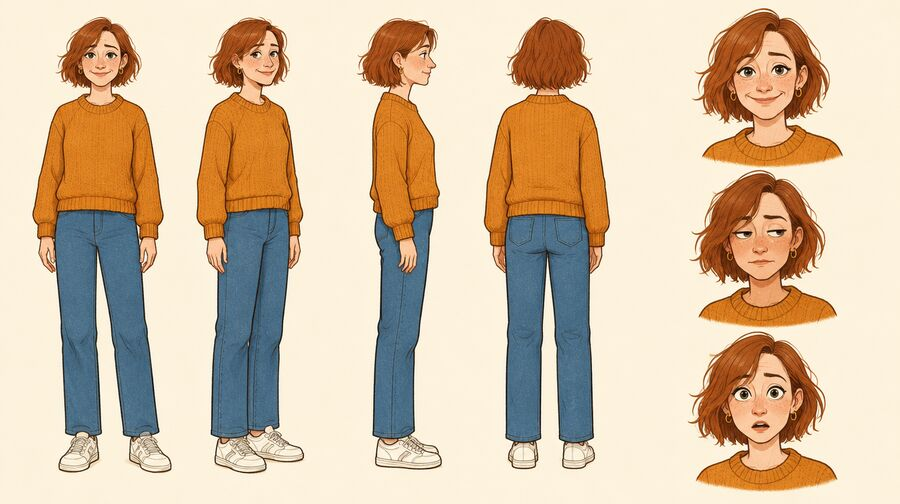
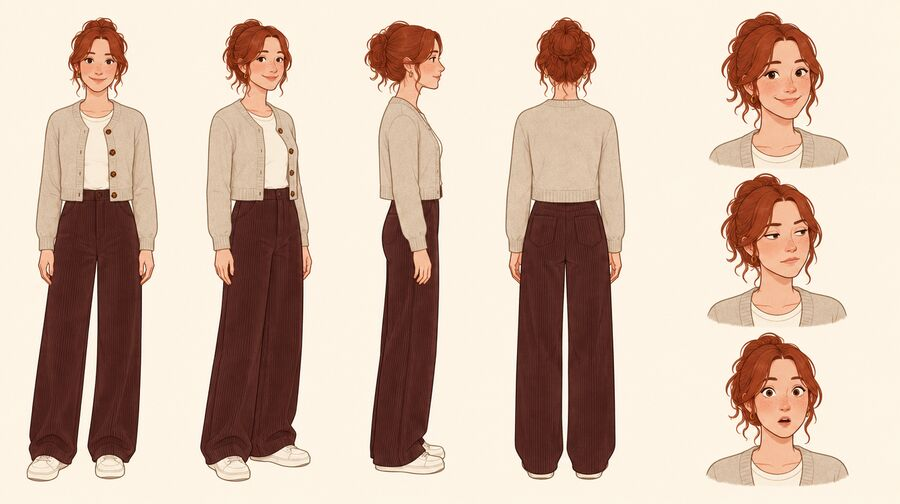
Emily v3 (red updo, beige and burgundy), calmer palette, comic redrawn; Halloween week plan
Claude-Session: https://claude.ai/code/session_019ztv4DbB6iZxgJYrBK5yr6

diff --git a/CHARACTERS.md b/CHARACTERS.md
@@ -12,6 +12,7 @@ Read this before making any comic, illustrated post or video with the I'm OK cas
   - Why not 3D: AI 3D characters drift towards the generic animated-film look, which reads as AI and as borrowed; 2D is easier to keep consistent and leaves room for text.
   - Revisit only if the 2D videos clearly underperform after a month, and then switch the whole cast at once, never mix.
 - Line: rounded, medium weight, warm dark brown (#3A2A1E), never pure black.
+- Scenes use a calm, muted palette: cream walls, sage green, beige and warm wood. Bright orange is for Tick and small accents only, never whole rooms or clothes.
 - Colour: the brand palette. Cream background #FFF7EE, warm sand #F3E6D6, I'm OK orange #FF8A3D with the gradient to #FFB347, ink #2A1D14, WhatsApp green #25D366 only for phone screens and Done buttons.
 - Proportions: natural (head about one sixth of the body). No giant limbs, tiny heads or corporate-flat people.
 - Faces: simple, expressive eyes and eyebrows; the joke is carried by expressions.
@@ -22,7 +23,7 @@ Read this before making any comic, illustrated post or video with the I'm OK cas
 
 | Character | Look (keep identical every time) | Personality | Running joke | Never |
 |---|---|---|---|---|
-| **Emily** | Late 30s, short copper-ginger hair in a choppy chin-length bob with a side parting, freckles, mustard-orange jumper (brand orange), jeans, white trainers, small gold hoops | Kind, busy, slightly late, worries about her parents | Has 47 phone alarms, all called IMPORTANT | Shown as a nag or a bad daughter |
+| **Emily** | Mid 30s, copper-red hair tied up in a loose, effortless messy updo with face-framing strands, freckles, smooth skin (no lines), oatmeal-beige cropped cardigan over a cream top, wide-leg burgundy corduroy trousers, white trainers, small gold hoops | Kind, busy, slightly late, worries about her parents, quietly stylish | Has 47 phone alarms, all called IMPORTANT | Shown as a nag or a bad daughter |
 | **Mum** | Early 70s, short silver bob, red-framed glasses on a beaded chain, teal cardigan, pearl earrings | Sharp, independent, funny, proud | "I know, I know" to every reminder, then taps Done with a flourish | Confused, frail, or the butt of the joke |
 | **Dad** | Mid 70s, bald on top with white sides, white moustache, flat cap outdoors, green knitted vest over a checked shirt | Cheerful, competitive, happiest in the garden | Treats the Done button as a game he intends to win | Forgetful as the punchline, or helpless with technology |
 | **Tick** | The I'm OK app icon come to life: a small rounded orange speech bubble with a white tick for a mouth-and-eyes face, tiny arms, no legs (floats) | Helpful, upbeat, a bit smug | Pops out of phones; does the nagging so Emily doesn't have to | Talks in long sentences (one short line at most) |
@@ -74,7 +75,7 @@ Avoid: 3D, photorealism, anime, big-limbed corporate flat style, text or letters
 Shared start: "Character turnaround and expression sheet, 2D flat illustration with soft paper grain, rounded medium-weight warm dark brown (#3A2A1E) outlines, natural adult proportions, flat brand colours (cream #FFF7EE background, sand #F3E6D6, orange #FF8A3D), left: four consistent full-body views in a row (front, three-quarter, side, back), right: three head-and-shoulders expressions (happy, unimpressed, surprised), identical original character in every view, plain cream seamless background, professional model sheet presentation,"
 Shared end: "no text, no letters, no logos, no watermark, no frame borders, no other characters, no props, not 3D, not photorealistic, not anime, no big-limbed corporate flat style, original character not resembling any real person or existing character."
 
-- **Emily:** "woman in her late thirties, fair skin with a light dusting of freckles, short copper-ginger hair in a choppy chin-length bob with a side parting and a few messy strands, no bun, small gold hoop earrings, mustard-orange chunky knit jumper, mid-blue straight jeans, white trainers, slim build, kind tired eyes with a hint of humour,"
+- **Emily:** "woman in her mid thirties with smooth clear skin, no wrinkles, a light dusting of freckles, copper-red hair tied up in a loose messy updo bun with soft face-framing curtain strands and loose wisps, small gold hoop earrings, light oatmeal-beige cropped knit cardigan with tortoiseshell buttons over a plain cream top, wide-leg dark burgundy-brown corduroy trousers, white trainers, slim build, warm, kind, slightly amused expression, no orange clothing,"
 - **Mum:** "woman in her early seventies, fair skin with soft smile lines, short neat silver bob, red-framed glasses on a beaded chain, small pearl earrings, teal cardigan over a cream blouse, navy trousers, comfortable brown loafers, upright confident posture, sharp amused expression,"
 - **Dad:** "man in his mid seventies, ruddy fair skin, bald on top with short white hair at the sides, full white moustache, green knitted sleeveless vest over a blue-and-white checked shirt, brown corduroy trousers, sturdy brown shoes, flat tweed cap held in one hand, stocky build, cheerful competitive grin,"
 - **Tick:** "small friendly mascot shaped like a rounded orange speech bubble (#FF8A3D to #FFB347 soft gradient) with a tail at the bottom left, a simple white tick shape forming its smile, two small dot eyes, tiny stubby arms, no legs, floating slightly above the ground with a soft shadow, about the size of a hand, upbeat and slightly smug,"
@@ -83,7 +84,7 @@ Generate each sheet, check it against the table above, save the chosen one as `c
 
 ## Approved reference sheets (12 Oct 2026)
 Previews are in `characters/` (emily-sheet.jpg, mum-sheet.jpg, dad-sheet.jpg, tick-sheet.jpg). Full-size originals are in Higgsfield; pass these job IDs as reference images (role image_references, model gpt_image_2_5) in every scene:
-- Emily: 4df0202f-42b7-4cac-8c10-5e5685980d6c (ginger bob, approved 12 Oct; the earlier dark-haired version is retired)
+- Emily: aa301b61-9570-4b52-93fd-dd0525ce865a (red updo, beige cardigan, burgundy trousers; approved 12 Oct. Earlier versions are retired)
 - Mum: d21f2e51-46db-4e17-b25a-4922d04a35d0
 - Dad: a604a7be-b495-4d50-bd4f-37691cf57644
 - Tick: 72649bd3-df1c-4a72-b662-d26cf1bab67a

diff --git a/PLAN.md b/PLAN.md
@@ -2,6 +2,8 @@
 
 The grid was emptied on 11 Oct. Monday 12 Oct posts the three launch posts together so Enrico can pin them; from Tuesday it's one post a day.
 
+Halloween week (27 to 31 Oct) is the exception: a daily "what's really scary" comic for each audience, ending with a Halloween carousel. Spooky-cosy, never frightening, and the safety word post stays calm and practical.
+
 From 19 Oct, the Wednesday and Thursday posts are comics with the cast (Emily, Mum, Dad, Tick). Make them only from the reference sheets in characters/ and follow CHARACTERS.md. If the sheets don't exist yet, post the slot as a normal chat-screenshot post on the same idea instead.
 
 Launch order matters: the newest post shows first, so post "Who it's for" first, then "How it works", then "Welcome" last.
@@ -25,11 +27,11 @@ Launch order matters: the newest post shows first, so post "Who it's for" first,
 | Sat 24 Oct | 10:00 | Seasonal (clocks go back Sun 25 Oct) | Extra hour in bed; reminders still arrive at 9am, local time | Image |
 | Sun 25 Oct | 10:00 | Useful list | Reminders couples actually need: bins, bills, the dog's flea treatment, date night | Carousel |
 | Mon 26 Oct | 18:00 | Looking after family | Living far from Mum: you see "✅ Took her tablet at 9:05am" from 1,000 miles away | Chat screenshot |
-| Tue 27 Oct | 18:00 | How it works | Plus, plainly: a message every time it's done, and a gentle nudge if they forget (no prices) | Image |
-| Wed 28 Oct | 18:00 | How it works (comic) | Dad and the Done button: the reminder arrives, Dad taps Done before it's even finished, punches the air; Emily sees it from London | Comic, 4 panels, cast |
-| Thu 29 Oct | 18:00 | Seasonal lead-up (comic) | Halloween is coming: Emily hears the bin lorry and screams; Tick appears in a ghost sheet with "Put the bins out"; Done ✅ | Comic, 4 panels, cast |
-| Fri 30 Oct | 18:00 | Safety word | Walking home late? Send your secret word to I'm OK and your people are alerted at once, with your number and, if you like, where you are | Chat screenshot (John's phone and Emily's phone) |
-| Sat 31 Oct | 10:00 | Seasonal (day) | Happy Halloween: "🎃 Buy sweets before the doorbell starts", Done ✅ | Chat screenshot, festive design |
+| Tue 27 Oct | 18:00 | Halloween week: what's really scary (comic) | For parents: 11:40pm, Sam's out, no text, Emily staring at the door. One reminder "Text me when you're home", Sam taps Done, "✅ Sam's home, 11:52pm". Spooky-cosy lighting, never frightening | Comic, 4 panels, Emily + Sam |
+| Wed 28 Oct | 18:00 | Halloween week: what's really scary (comic) | For grown-up kids: 9pm, did Dad take his pills? Emily imagines the worst (cartoon thunder cloud); Dad, in the garden, taps Done; "✅ Dad: Take your tablets, done at 9:02pm" | Comic, 4 panels, Emily + Dad |
+| Thu 29 Oct | 18:00 | Halloween week: what's really scary (comic) | For flatmates: rent day, nobody knows who's paid; the bin lorry rumbles at dawn. Tick in a ghost sheet: "Pay the rent 🏠" Done ✅, "Bins out" Done ✅ | Comic, 4 panels, John + a flatmate + Tick |
+| Fri 30 Oct | 18:00 | Halloween week: safety word (serious, calm) | Walking home after a Halloween party: one secret word sent to I'm OK alerts your people at once, with your number and, if you like, where you are. Calm, practical, never frightening; not an emergency service | Comic, 4 panels, Emily + Tick (calm, warm) |
+| Sat 31 Oct | 10:00 | Seasonal (day): Happy Halloween | "What's really scary" carousel: one slide each for parents, grown-up kids, flatmates and walking home (reusing this week's best panels), plus a festive cover with Tick in a pumpkin costume and a last slide "Start free at getimok.app" | Carousel, 6 slides |
 | Sun 1 Nov | 10:00 | Seasonal (month) | Hello November: set the reminders that matter this month (flu jab, boiler service, a call to Gran) | Image |
 | Mon 2 Nov | 18:00 | Looking after family | Kids away at uni: "Text me when you're home" becomes one Done tap | Chat screenshot |
 | Tue 3 Nov | 18:00 | How it works | They don't need an app. Just WhatsApp, one tap to say yes, one tap for Done | Image |
@@ -37,4 +39,6 @@ Launch order matters: the newest post shows first, so post "Who it's for" first,
 | Thu 5 Nov | 18:00 | Seasonal: Bonfire Night (comic) | Dad at the fireworks with a sparkler; Emily's phone: Dad tapped I'm OK, home safe; Tick with tiny ear defenders | Comic, 4 panels, cast |
 | Fri 6 Nov | 18:00 | No more nagging | Couples: "One Done tap stands between us and a mini-me" (the daily pill reminder, sent by I'm OK). Keep it light and tasteful; organic only, never boosted | Meme |
 | Sat 7 Nov | 10:00 | Real people | Why I built I'm OK, told without Enrico's face (messages and text on screen) | Carousel |
+| Tue 10 Nov | 18:00 | How it works | Plus, plainly: a message every time it's done, and a gentle nudge if they forget (no prices). Moved from 27 Oct for Halloween week | Image |
+| Wed 11 Nov | 18:00 | How it works (comic) | Dad and the Done button: the reminder arrives, Dad taps Done before it's even finished, punches the air; Emily sees it from London. Moved from 28 Oct | Comic, 4 panels, cast |
 | Sun 8 Nov | 10:00 | Useful list | Reminders for your dog: flea treatment, worming, the walk when you're late home | Carousel |
